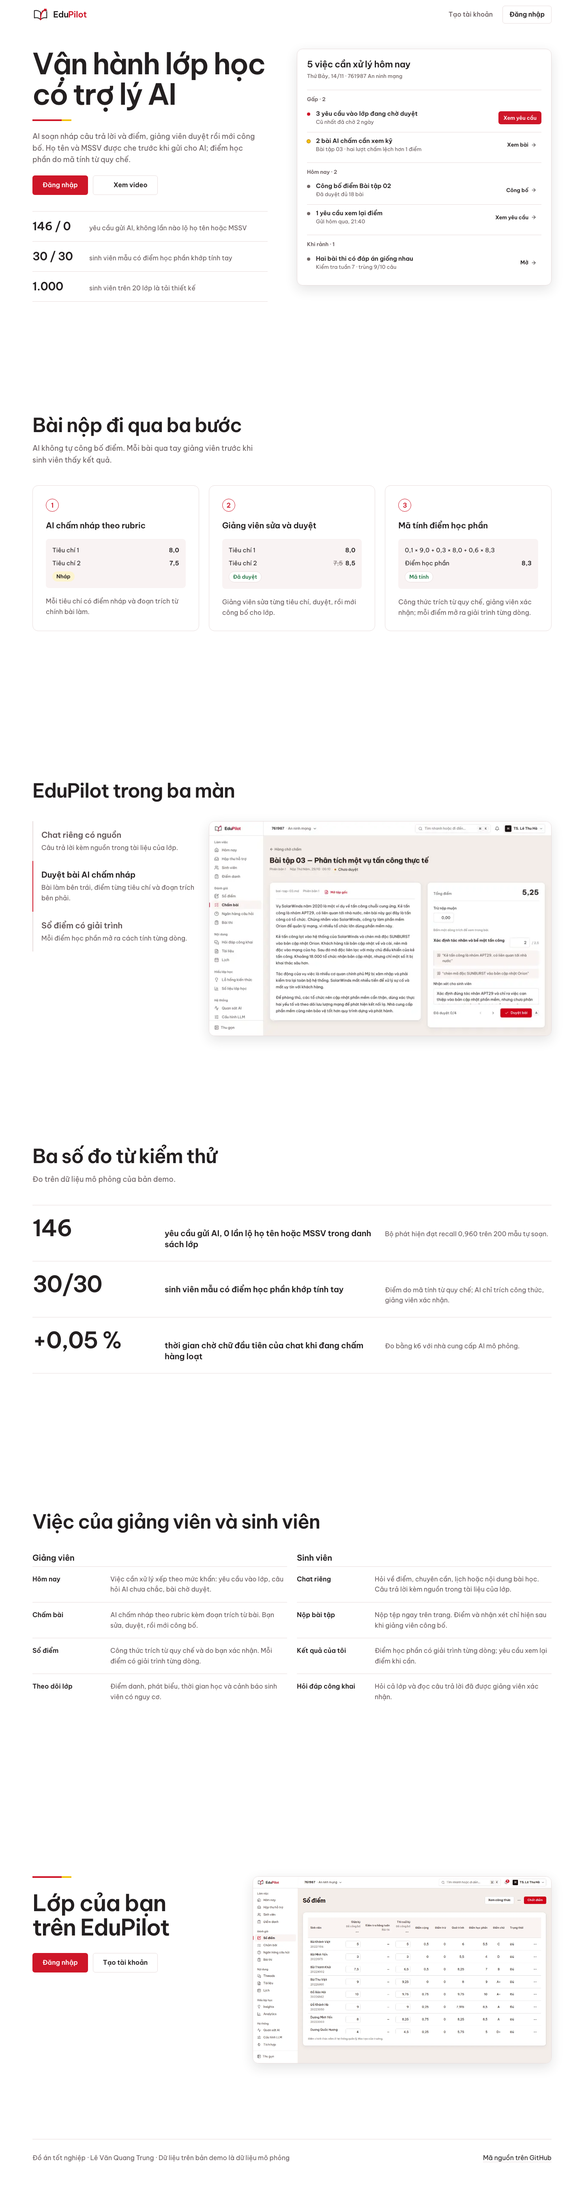
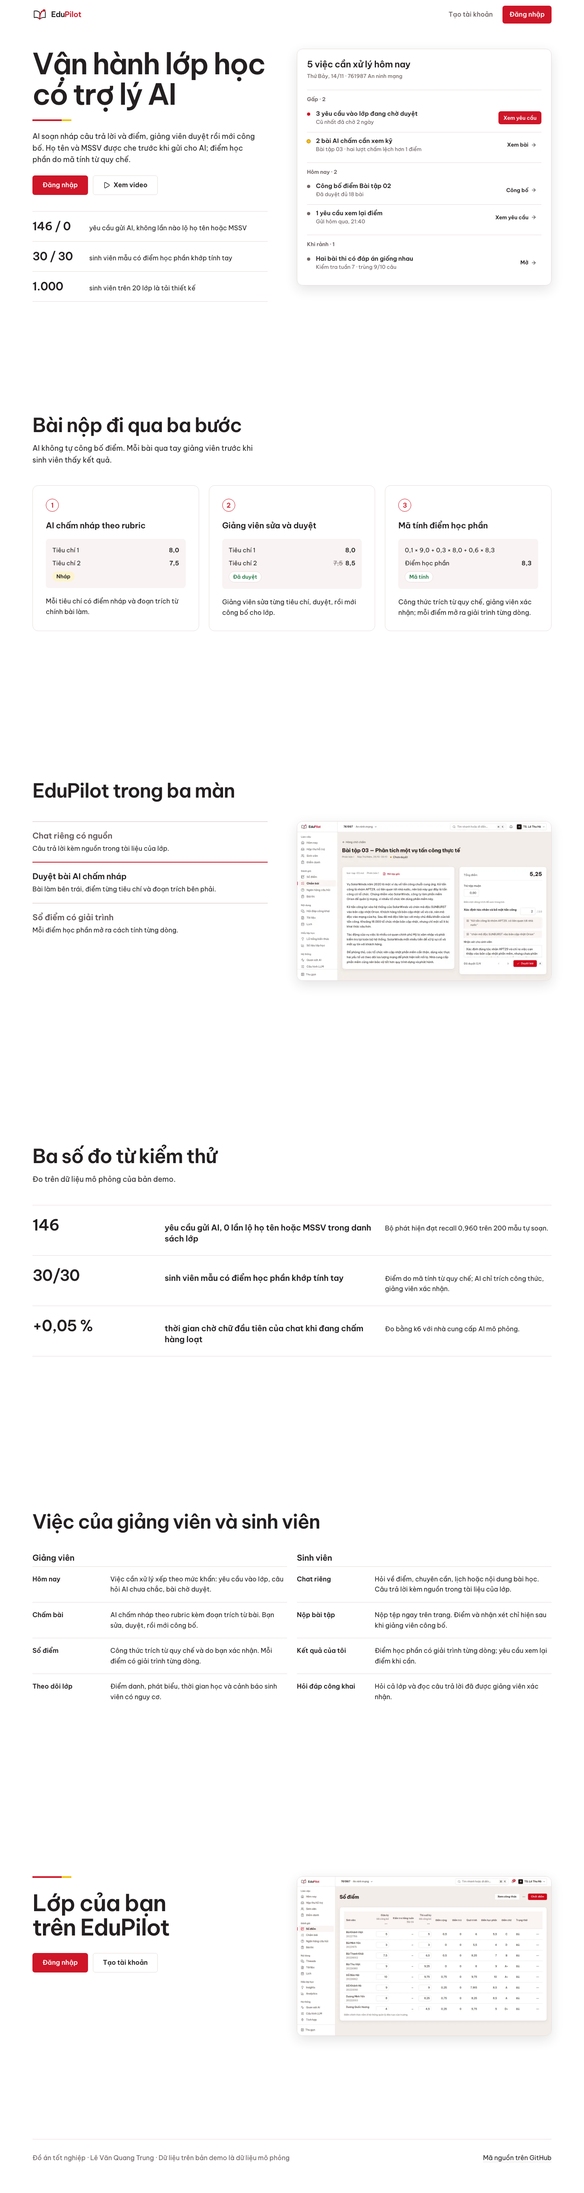
10.7 TL-1: mẫu trang giới thiệu sửa theo bộ kiểm (một đường chia đôi, màn đầu vừa một màn ở 390, nút đăng nhập một kiểu), §23 thêm nền trắng / lọc trong URL / dòng báo việc nền, P-107-10/11

diff --git a/docs/sprints/10.7/mau/landing.html b/docs/sprints/10.7/mau/landing.html
@@ -37,8 +37,8 @@ body { margin: 0; font-size: 1rem; line-height: 1.6; }
 h1, h2, h3, p, dl, dd, ol, ul { margin: 0; padding: 0; } ol, ul { list-style: none; } img, svg { display: block; max-width: 100%; } a { color: inherit; text-decoration: none; } button { font: inherit; cursor: pointer; }
 .ic { width: 18px; height: 18px; fill: none; stroke: currentColor; stroke-width: 1.8; stroke-linecap: round; stroke-linejoin: round; flex: none; }
 :focus-visible { outline: 2px solid var(--ep-red); outline-offset: 3px; border-radius: var(--ep-radius-sm); }
-.skip { position: absolute; left: -9999px; top: 8px; z-index: 50; padding: 8px 12px; background: var(--ep-ink); color: var(--ep-surface); border-radius: var(--ep-radius-sm); }
-.skip:focus { left: 8px; }
+.skip { position: absolute; left: 8px; top: 8px; z-index: 50; padding: 8px 12px; background: var(--ep-ink); color: var(--ep-surface); border-radius: var(--ep-radius-sm); transform: translateY(-200%); }
+.skip:focus { transform: none; }
 
 /* một khung chứa cho thanh trên, mọi mục và chân trang: mép 80 → 1360 ở 1440 */
 .wrap { width: min(100% - 2 * var(--gut), 1280px); margin-inline: auto; position: relative; z-index: 1; }
@@ -61,12 +61,12 @@ main > section, footer.closing { height: 100svh; min-height: 820px; padding: var
 .section--white { background: var(--ep-surface); }
 .h2 { font-size: 3rem; font-weight: 600; line-height: 1.12; letter-spacing: -0.03em; text-wrap: balance; }
 .h3 { font-size: 1.25rem; font-weight: 600; line-height: 1.35; letter-spacing: -0.01em; }
-.lead { font-size: 1.125rem; line-height: 1.6; color: var(--ep-ink-2); max-width: 46ch; }
+.lead { font-size: 1.125rem; line-height: 1.6; color: var(--ep-ink); max-width: 46ch; }
 .head { display: grid; gap: 16px; margin-bottom: 48px; }
-.body { color: var(--ep-ink-2); }
+.body { color: var(--ep-ink); }
 
 /* ---------- 1. màn đầu: chữ + ba dữ kiện ở cột 1–6, sản phẩm thật ở cột 7–12, hai cột cùng đỉnh ---------- */
-.hero .wrap { align-content: start; }
+.hero-text { display: grid; grid-template-columns: repeat(12, minmax(0, 1fr)); column-gap: 24px; align-items: start; }
 .hero__text { grid-column: 1 / span 6; display: grid; gap: 24px; align-content: start; padding-right: 48px; }
 .h1 { font-size: 4.5rem; font-weight: 600; line-height: 1.04; letter-spacing: -0.04em; }
 .stripe { display: flex; height: 4px; width: 96px; } .stripe i { flex: 3; background: var(--ep-red); } .stripe b { flex: 1; background: var(--ep-yellow); } /* tỉ lệ dải đỏ / vàng của nhận diện Bách khoa, không dùng logo trường */
@@ -85,7 +85,7 @@ main > section, footer.closing { height: 100svh; min-height: 820px; padding: var
 .chip--primary { background: var(--ep-red); color: var(--ep-surface); } .chip--ghost { color: var(--ep-ink); } .chip .ic { width: 14px; height: 14px; }
 .facts { display: grid; margin-top: 16px; }
 .fact { display: grid; grid-template-columns: 124px minmax(0, 1fr); column-gap: 16px; align-items: baseline; padding: 14px 0; border-top: 1px solid var(--ep-rule); } .fact:last-child { border-bottom: 1px solid var(--ep-rule); }
-.fact b { font-size: 1.75rem; font-weight: 600; letter-spacing: -0.02em; font-variant-numeric: tabular-nums; white-space: nowrap; } .fact span { color: var(--ep-ink-2); line-height: 1.45; }
+.fact b { font-size: 1.75rem; font-weight: 600; letter-spacing: -0.02em; font-variant-numeric: tabular-nums; white-space: nowrap; } .fact span { line-height: 1.45; }
 
 /* ---------- 2. ba bước của một bài nộp ---------- */
 .steps3 { display: grid; grid-template-columns: repeat(3, minmax(0, 1fr)); gap: 24px; }
@@ -97,32 +97,33 @@ main > section, footer.closing { height: 100svh; min-height: 820px; padding: var
 .tag--draft { background: var(--ep-yellow-soft); color: var(--ep-ink); } .tag--done { background: var(--ep-surface); color: var(--ep-green); border: 1px solid var(--ep-rule); }
 
 /* ---------- 3. EduPilot trong ba màn ---------- */
-.story__list { grid-column: 1 / span 4; display: grid; gap: 0; align-content: start; }
-.story__item { display: grid; gap: 6px; padding: 20px 0 20px 20px; border-left: 2px solid var(--ep-rule); }
-.story__item[aria-current] { border-left-color: var(--ep-red); }
+/* mọi chỗ chia đôi của trang dùng chung một đường: cột phải bắt đầu ở cột 7 (x 732 ở 1440) */
+.story__list { grid-column: 1 / span 6; display: grid; gap: 0; align-content: start; padding-right: 48px; }
+.story__item { display: grid; gap: 6px; padding: 20px 0; border-top: 2px solid var(--ep-rule); }
+.story__item[aria-current] { border-top-color: var(--ep-red); }
 .story__item:not([aria-current]) .h3 { color: var(--ep-ink-2); }
-.story__shot { grid-column: 5 / span 8; align-self: start; }
+.story__shot { grid-column: 7 / span 6; align-self: start; }
 .story__shot img { width: 100%; height: auto; }
 
 /* ---------- 4. ba số đo ---------- */
 .stats { display: grid; }
 .stat { display: grid; grid-template-columns: repeat(12, minmax(0, 1fr)); column-gap: 24px; align-items: baseline; padding: 28px 0; border-top: 1px solid var(--ep-rule); }
 .stat:last-child { border-bottom: 1px solid var(--ep-rule); }
-.stat__num { grid-column: 1 / span 3; font-size: 3.5rem; font-weight: 600; line-height: 1; letter-spacing: -0.03em; font-variant-numeric: tabular-nums; }
-.stat__what { grid-column: 4 / span 5; } .stat__how { grid-column: 9 / span 4; color: var(--ep-ink-2); }
+.stat__num { grid-column: 1 / span 3; font-size: 2.375rem; font-weight: 600; line-height: 1.1; letter-spacing: -0.03em; font-variant-numeric: tabular-nums; }
+.stat__what { grid-column: 4 / span 5; } .stat__how { grid-column: 9 / span 4; }
 
 /* ---------- 5. hai vai ---------- */
 .roles { display: grid; grid-template-columns: repeat(2, minmax(0, 1fr)); column-gap: 24px; }
 .role { display: grid; gap: 8px; align-content: start; }
 .items > div { display: grid; grid-template-columns: 168px minmax(0, 1fr); column-gap: 24px; padding: 18px 0; border-top: 1px solid var(--ep-rule); }
-.items dt { font-weight: 600; } .items dd { color: var(--ep-ink-2); }
+.items dt { font-weight: 600; }
 
 /* ---------- 6. lời kết + chân trang: một mục ---------- */
 footer.closing .wrap { height: 100%; display: grid; grid-template-rows: 1fr auto; }
 .close { display: grid; grid-template-columns: repeat(12, minmax(0, 1fr)); column-gap: 24px; align-items: start; }
-.close__text { grid-column: 1 / span 5; display: grid; gap: 32px; }
+.close__text { grid-column: 1 / span 6; display: grid; gap: 32px; }
 .close .h2 { font-size: 3.5rem; line-height: 1.08; }
-.close__shot { grid-column: 6 / span 7; } .close__shot img { width: 100%; height: auto; }
+.close__shot { grid-column: 7 / span 6; } .close__shot img { width: 100%; height: auto; }
 .legal { display: flex; align-items: center; justify-content: space-between; gap: 24px; flex-wrap: wrap; padding-top: 24px; border-top: 1px solid var(--ep-rule); color: var(--ep-ink-2); }
 .legal a { display: inline-flex; align-items: center; min-height: 44px; color: var(--ep-ink); text-decoration: underline; text-decoration-color: var(--ep-rule); text-underline-offset: 4px; }
 .legal a:hover { text-decoration-color: var(--ep-red); }
@@ -136,7 +137,7 @@ footer.closing .wrap { height: 100%; display: grid; grid-template-rows: 1fr auto
 @media (max-width: 1023px) {
   :root { --gut: 48px; }
   main > section, footer.closing { height: auto; min-height: 100svh; }
-  .hero__text, .hero__shot, .story__list, .story__shot, .close__text, .close__shot { grid-column: 1 / -1; } .hero__text { padding-right: 0; } .hero .wrap, .close { row-gap: 32px; }
+  .hero__text, .hero__shot, .story__list, .story__shot, .close__text, .close__shot { grid-column: 1 / -1; } .hero__text, .story__list { padding-right: 0; } .hero-text, .close, .grid { row-gap: 32px; }
   .steps3, .roles { grid-template-columns: 1fr; row-gap: 24px; }
 }
 @media (max-width: 639px) {
@@ -146,8 +147,11 @@ footer.closing .wrap { height: 100%; display: grid; grid-template-rows: 1fr auto
   .head { margin-bottom: 32px; }
   .actions .btn { flex: 1; }
   .fact { grid-template-columns: 96px minmax(0, 1fr); } .fact b { font-size: 1.375rem; }
+  /* màn đầu vừa đúng một màn điện thoại: một dữ kiện, nhóm việc đầu tiên */
+  .fact:nth-child(n+2), .app > :nth-child(n+6) { display: none; }
+  #bai-nop, #vai { min-height: 200svh; }
   .card { padding: 24px; }
-  .stat { grid-template-columns: 1fr; row-gap: 8px; } .stat__num, .stat__what, .stat__how { grid-column: 1; } .stat__num { font-size: 2.5rem; }
+  .stat { grid-template-columns: 1fr; row-gap: 6px; padding: 16px 0; } .stat__num, .stat__what, .stat__how { grid-column: 1; } .stat__num { font-size: 1.75rem; }
   .items > div { grid-template-columns: 1fr; row-gap: 4px; }
   .app { padding: 16px; } .chip--ghost { display: none; }
 }
@@ -155,50 +159,14 @@ footer.closing .wrap { height: 100%; display: grid; grid-template-rows: 1fr auto
 </head>
 <body>
 <svg width="0" height="0" style="position:absolute" aria-hidden="true"><defs>
-<symbol id="i-house" viewBox="0 0 24 24"><path d="M15 21v-8a1 1 0 0 0-1-1h-4a1 1 0 0 0-1 1v8"/><path d="M3 10a2 2 0 0 1 .709-1.528l7-6a2 2 0 0 1 2.582 0l7 6A2 2 0 0 1 21 10v9a2 2 0 0 1-2 2H5a2 2 0 0 1-2-2z"/></symbol>
-<symbol id="i-inbox" viewBox="0 0 24 24"><polyline points="22 12 16 12 14 15 10 15 8 12 2 12"/><path d="M5.45 5.11 2 12v6a2 2 0 0 0 2 2h16a2 2 0 0 0 2-2v-6l-3.45-6.89A2 2 0 0 0 16.76 4H7.24a2 2 0 0 0-1.79 1.11z"/></symbol>
-<symbol id="i-users" viewBox="0 0 24 24"><path d="M16 21v-2a4 4 0 0 0-4-4H6a4 4 0 0 0-4 4v2"/><path d="M16 3.128a4 4 0 0 1 0 7.744"/><path d="M22 21v-2a4 4 0 0 0-3-3.87"/><circle cx="9" cy="7" r="4"/></symbol>
-<symbol id="i-clipboard-check" viewBox="0 0 24 24"><rect width="8" height="4" x="8" y="2" rx="1" ry="1"/><path d="M16 4h2a2 2 0 0 1 2 2v14a2 2 0 0 1-2 2H6a2 2 0 0 1-2-2V6a2 2 0 0 1 2-2h2"/><path d="m9 14 2 2 4-4"/></symbol>
-<symbol id="i-notebook-pen" viewBox="0 0 24 24"><path d="M13.4 2H6a2 2 0 0 0-2 2v16a2 2 0 0 0 2 2h12a2 2 0 0 0 2-2v-7.4"/><path d="M2 6h4"/><path d="M2 10h4"/><path d="M2 14h4"/><path d="M2 18h4"/><path d="M21.378 5.626a1 1 0 1 0-3.004-3.004l-5.01 5.012a2 2 0 0 0-.506.854l-.837 2.87a.5.5 0 0 0 .62.62l2.87-.837a2 2 0 0 0 .854-.506z"/></symbol>
-<symbol id="i-list-checks" viewBox="0 0 24 24"><path d="M13 5h8"/><path d="M13 12h8"/><path d="M13 19h8"/><path d="m3 17 2 2 4-4"/><path d="m3 7 2 2 4-4"/></symbol>
-<symbol id="i-circle-question-mark" viewBox="0 0 24 24"><circle cx="12" cy="12" r="10"/><path d="M9.09 9a3 3 0 0 1 5.83 1c0 2-3 3-3 3"/><path d="M12 17h.01"/></symbol>
-<symbol id="i-clipboard-list" viewBox="0 0 24 24"><rect width="8" height="4" x="8" y="2" rx="1" ry="1"/><path d="M16 4h2a2 2 0 0 1 2 2v14a2 2 0 0 1-2 2H6a2 2 0 0 1-2-2V6a2 2 0 0 1 2-2h2"/><path d="M12 11h4"/><path d="M12 16h4"/><path d="M8 11h.01"/><path d="M8 16h.01"/></symbol>
-<symbol id="i-messages-square" viewBox="0 0 24 24"><path d="M16 10a2 2 0 0 1-2 2H6.828a2 2 0 0 0-1.414.586l-2.202 2.202A.71.71 0 0 1 2 14.286V4a2 2 0 0 1 2-2h10a2 2 0 0 1 2 2z"/><path d="M20 9a2 2 0 0 1 2 2v10.286a.71.71 0 0 1-1.212.502l-2.202-2.202A2 2 0 0 0 17.172 19H10a2 2 0 0 1-2-2v-1"/></symbol>
-<symbol id="i-message-square" viewBox="0 0 24 24"><path d="M22 17a2 2 0 0 1-2 2H6.828a2 2 0 0 0-1.414.586l-2.202 2.202A.71.71 0 0 1 2 21.286V5a2 2 0 0 1 2-2h16a2 2 0 0 1 2 2z"/></symbol>
-<symbol id="i-file-text" viewBox="0 0 24 24"><path d="M6 22a2 2 0 0 1-2-2V4a2 2 0 0 1 2-2h8a2.4 2.4 0 0 1 1.704.706l3.588 3.588A2.4 2.4 0 0 1 20 8v12a2 2 0 0 1-2 2z"/><path d="M14 2v5a1 1 0 0 0 1 1h5"/><path d="M10 9H8"/><path d="M16 13H8"/><path d="M16 17H8"/></symbol>
-<symbol id="i-calendar-days" viewBox="0 0 24 24"><path d="M8 2v3"/><path d="M16 2v3"/><rect x="3" y="3" width="18" height="18" rx="2"/><path d="M3 9h18"/><path d="M8 13h.01"/><path d="M12 13h.01"/><path d="M16 13h.01"/><path d="M8 17h.01"/><path d="M12 17h.01"/><path d="M16 17h.01"/></symbol>
-<symbol id="i-lightbulb" viewBox="0 0 24 24"><path d="M15 14c.2-1 .7-1.7 1.5-2.5 1-.9 1.5-2.2 1.5-3.5A6 6 0 0 0 6 8c0 1 .2 2.2 1.5 3.5.7.7 1.3 1.5 1.5 2.5"/><path d="M9 18h6"/><path d="M10 22h4"/></symbol>
-<symbol id="i-chart-column" viewBox="0 0 24 24"><path d="M3 3v16a2 2 0 0 0 2 2h16"/><path d="M18 17V9"/><path d="M13 17V5"/><path d="M8 17v-3"/></symbol>
-<symbol id="i-activity" viewBox="0 0 24 24"><path d="M22 12h-2.48a2 2 0 0 0-1.93 1.46l-2.35 8.36a.25.25 0 0 1-.48 0L9.24 2.18a.25.25 0 0 0-.48 0l-2.35 8.36A2 2 0 0 1 4.49 12H2"/></symbol>
-<symbol id="i-sliders-horizontal" viewBox="0 0 24 24"><path d="M10 5H3"/><path d="M12 19H3"/><path d="M14 3v4"/><path d="M16 17v4"/><path d="M21 12h-9"/><path d="M21 19h-5"/><path d="M21 5h-7"/><path d="M8 10v4"/><path d="M8 12H3"/></symbol>
-<symbol id="i-plug" viewBox="0 0 24 24"><path d="M12 22v-5"/><path d="M15 8V2"/><path d="M17 8a1 1 0 0 1 1 1v4a4 4 0 0 1-4 4h-4a4 4 0 0 1-4-4V9a1 1 0 0 1 1-1z"/><path d="M9 8V2"/></symbol>
-<symbol id="i-panel-left-close" viewBox="0 0 24 24"><rect width="18" height="18" x="3" y="3" rx="2"/><path d="M9 3v18"/><path d="m16 15-3-3 3-3"/></symbol>
-<symbol id="i-search" viewBox="0 0 24 24"><path d="m21 21-4.34-4.34"/><circle cx="11" cy="11" r="8"/></symbol>
-<symbol id="i-bell" viewBox="0 0 24 24"><path d="M10.268 21a2 2 0 0 0 3.464 0"/><path d="M3.262 15.326A1 1 0 0 0 4 17h16a1 1 0 0 0 .74-1.673C19.41 13.956 18 12.499 18 8A6 6 0 0 0 6 8c0 4.499-1.411 5.956-2.738 7.326"/></symbol>
-<symbol id="i-chevron-down" viewBox="0 0 24 24"><path d="m6 9 6 6 6-6"/></symbol>
-<symbol id="i-chevron-right" viewBox="0 0 24 24"><path d="m9 18 6-6-6-6"/></symbol>
-<symbol id="i-plus" viewBox="0 0 24 24"><path d="M5 12h14"/><path d="M12 5v14"/></symbol>
-<symbol id="i-sparkles" viewBox="0 0 24 24"><path d="M11.017 2.814a1 1 0 0 1 1.966 0l1.051 5.558a2 2 0 0 0 1.594 1.594l5.558 1.051a1 1 0 0 1 0 1.966l-5.558 1.051a2 2 0 0 0-1.594 1.594l-1.051 5.558a1 1 0 0 1-1.966 0l-1.051-5.558a2 2 0 0 0-1.594-1.594l-5.558-1.051a1 1 0 0 1 0-1.966l5.558-1.051a2 2 0 0 0 1.594-1.594z"/><path d="M20 2v4"/><path d="M22 4h-4"/><circle cx="4" cy="20" r="2"/></symbol>
-<symbol id="i-refresh-cw" viewBox="0 0 24 24"><path d="M3 12a9 9 0 0 1 9-9 9.75 9.75 0 0 1 6.74 2.74L21 8"/><path d="M21 3v5h-5"/><path d="M21 12a9 9 0 0 1-9 9 9.75 9.75 0 0 1-6.74-2.74L3 16"/><path d="M8 16H3v5"/></symbol>
-<symbol id="i-circle-alert" viewBox="0 0 24 24"><circle cx="12" cy="12" r="10"/><line x1="12" x2="12" y1="8" y2="12"/><line x1="12" x2="12.01" y1="16" y2="16"/></symbol>
-<symbol id="i-upload" viewBox="0 0 24 24"><path d="M12 3v12"/><path d="m17 8-5-5-5 5"/><path d="M21 15v4a2 2 0 0 1-2 2H5a2 2 0 0 1-2-2v-4"/></symbol>
-<symbol id="i-ellipsis" viewBox="0 0 24 24"><circle cx="12" cy="12" r="1"/><circle cx="19" cy="12" r="1"/><circle cx="5" cy="12" r="1"/></symbol>
-<symbol id="i-pin" viewBox="0 0 24 24"><path d="M12 17v5"/><path d="M9 10.76a2 2 0 0 1-1.11 1.79l-1.78.9A2 2 0 0 0 5 15.24V16a1 1 0 0 0 1 1h12a1 1 0 0 0 1-1v-.76a2 2 0 0 0-1.11-1.79l-1.78-.9A2 2 0 0 1 15 10.76V7a1 1 0 0 1 1-1 2 2 0 0 0 0-4H8a2 2 0 0 0 0 4 1 1 0 0 1 1 1z"/></symbol>
-<symbol id="i-calendar-plus" viewBox="0 0 24 24"><path d="M16 18h6"/><path d="M16 2v3"/><path d="M19 15v6"/><path d="M21 11.5V5a2 2 0 00-2-2H5a2 2 0 00-2 2v14a2 2 0 002 2h8.3"/><path d="M3 9h18"/><path d="M8 2v3"/></symbol>
+<symbol id="i-play" viewBox="0 0 24 24"><path d="M5 5a2 2 0 0 1 3.008-1.728l11.997 6.998a2 2 0 0 1 .003 3.458l-12 7A2 2 0 0 1 5 19z"/></symbol>
 <symbol id="i-arrow-right" viewBox="0 0 24 24"><path d="M5 12h14"/><path d="m12 5 7 7-7 7"/></symbol>
-<symbol id="i-qr-code" viewBox="0 0 24 24"><rect width="5" height="5" x="3" y="3" rx="1"/><rect width="5" height="5" x="16" y="3" rx="1"/><rect width="5" height="5" x="3" y="16" rx="1"/><path d="M21 16h-3a2 2 0 0 0-2 2v3"/><path d="M21 21v.01"/><path d="M12 7v3a2 2 0 0 1-2 2H7"/><path d="M3 12h.01"/><path d="M12 3h.01"/><path d="M12 16v.01"/><path d="M16 12h1"/><path d="M21 12v.01"/><path d="M12 21v-1"/></symbol>
-<symbol id="i-scan-line" viewBox="0 0 24 24"><path d="M3 7V5a2 2 0 0 1 2-2h2"/><path d="M17 3h2a2 2 0 0 1 2 2v2"/><path d="M21 17v2a2 2 0 0 1-2 2h-2"/><path d="M7 21H5a2 2 0 0 1-2-2v-2"/><path d="M7 12h10"/></symbol>
-<symbol id="i-check" viewBox="0 0 24 24"><path d="M20 6 9 17l-5-5"/></symbol>
-<symbol id="i-circle-check" viewBox="0 0 24 24"><circle cx="12" cy="12" r="10"/><path d="m16 9-5.5 5.5L8 12"/></symbol>
-<symbol id="i-map-pin" viewBox="0 0 24 24"><path d="M20 10c0 4.993-5.539 10.193-7.399 11.799a1 1 0 0 1-1.202 0C9.539 20.193 4 14.993 4 10a8 8 0 0 1 16 0"/><circle cx="12" cy="10" r="3"/></symbol>
-<symbol id="i-library" viewBox="0 0 24 24"><path d="m16 6 4 14"/><path d="M12 6v14"/><path d="M8 8v12"/><path d="M4 4v16"/></symbol>
-<symbol id="i-clock" viewBox="0 0 24 24"><circle cx="12" cy="12" r="10"/><path d="M12 6v6l4 2"/></symbol>
 </defs></svg>
-<a class="skip" href="#main">Tới nội dung</a>
 
 <header class="nav">
+  <a class="skip" href="#main">Tới nội dung</a>
   <div class="wrap">
-    <a href="#top" aria-label="EduPilot"><svg width="188" height="40" viewBox="0 0 188 40" fill="none" xmlns="http://www.w3.org/2000/svg">
+    <a href="#top" aria-label="EduPilot"><svg class="logo" width="188" height="40" viewBox="0 0 188 40" fill="none" xmlns="http://www.w3.org/2000/svg">
   <title>EduPilot</title>
   <g>
     <path d="M4.75 10.25C10.3 8.85 15.35 10.15 20 14.15V31.6C15.35 27.8 10.3 26.6 4.75 28.15V10.25Z" stroke="#231F20" stroke-width="2" stroke-linejoin="round"/>
@@ -211,13 +179,13 @@ footer.closing .wrap { height: 100%; display: grid; grid-template-rows: 1fr auto
   <text x="51" y="27" fill="#231F20" font-family="Be Vietnam Pro, Noto Sans, Arial, sans-serif" font-size="21" font-weight="700" letter-spacing="-0.5">Edu</text>
   <text x="88" y="27" fill="#CE1628" font-family="Be Vietnam Pro, Noto Sans, Arial, sans-serif" font-size="21" font-weight="700" letter-spacing="-0.5">Pilot</text>
 </svg></a>
-    <div class="nav__end"><a class="nav__link" href="#register">Tạo tài khoản</a><a class="btn btn--secondary btn--sm" href="#login">Đăng nhập</a></div>
+    <div class="nav__end"><a class="nav__link" href="#register">Tạo tài khoản</a><a class="btn btn--primary btn--sm" href="#login">Đăng nhập</a></div>
   </div>
 </header>
 
 <main id="main">
   <section class="hero" id="top" aria-labelledby="hero-title" data-enter>
-    <div class="wrap grid">
+    <div class="wrap"><div class="hero-text">
       <div class="hero__text">
         <h1 class="h1" id="hero-title">Vận hành lớp học<br>có trợ lý AI</h1>
         <span class="stripe" aria-hidden="true"><i></i><b></b></span>
@@ -229,7 +197,7 @@ footer.closing .wrap { height: 100%; display: grid; grid-template-rows: 1fr auto
         <div class="fact"><b>1.000</b><span>sinh viên trên 20 lớp là tải thiết kế</span></div>
       </dl>
       </div>
-      <div class="hero__shot frame" role="img" aria-label="Màn Hôm nay của giảng viên: năm việc cần xử lý, xếp theo mức khẩn">
+      <div class="hero__shot frame" data-ui role="img" aria-label="Màn Hôm nay của giảng viên: năm việc cần xử lý, xếp theo mức khẩn">
         <div class="app" aria-hidden="true">
           <p class="app__title">5 việc cần xử lý hôm nay</p>
           <p class="app__meta">Thứ Bảy, 14/11 · 761987 An ninh mạng</p>
@@ -243,7 +211,7 @@ footer.closing .wrap { height: 100%; display: grid; grid-template-rows: 1fr auto
           <div class="row"><i class="dot"></i><div class="row__text"><p class="row__title">Hai bài thi có đáp án giống nhau</p><p class="row__ctx">Kiểm tra tuần 7 · trùng 9/10 câu</p></div><span class="chip chip--ghost">Mở<svg class="ic"><use href="#i-arrow-right"/></svg></span></div>
         </div>
       </div>
-    </div>
+    </div></div>
   </section>
 
   <section class="section" id="bai-nop" aria-labelledby="flow-title">
@@ -251,13 +219,13 @@ footer.closing .wrap { height: 100%; display: grid; grid-template-rows: 1fr auto
       <div class="head"><h2 class="h2" id="flow-title">Bài nộp đi qua ba bước</h2><p class="lead">AI không tự công bố điểm. Mỗi bài qua tay giảng viên trước khi sinh viên thấy kết quả.</p></div>
       <ol class="steps3">
         <li class="card"><span class="mark" aria-hidden="true">1</span><h3 class="h3">AI chấm nháp theo rubric</h3>
-          <div class="spec" aria-hidden="true"><p><span>Tiêu chí 1</span><b>8,0</b></p><p><span>Tiêu chí 2</span><b>7,5</b></p><i class="tag tag--draft">Nháp</i></div>
+          <div class="spec" data-ui aria-hidden="true"><p><span>Tiêu chí 1</span><b>8,0</b></p><p><span>Tiêu chí 2</span><b>7,5</b></p><i class="tag tag--draft">Nháp</i></div>
           <p class="body">Mỗi tiêu chí có điểm nháp và đoạn trích từ chính bài làm.</p></li>
         <li class="card"><span class="mark" aria-hidden="true">2</span><h3 class="h3">Giảng viên sửa và duyệt</h3>
-          <div class="spec" aria-hidden="true"><p><span>Tiêu chí 1</span><b>8,0</b></p><p><span>Tiêu chí 2</span><b><s>7,5</s>8,5</b></p><i class="tag tag--done">Đã duyệt</i></div>
+          <div class="spec" data-ui aria-hidden="true"><p><span>Tiêu chí 1</span><b>8,0</b></p><p><span>Tiêu chí 2</span><b><s>7,5</s>8,5</b></p><i class="tag tag--done">Đã duyệt</i></div>
           <p class="body">Giảng viên sửa từng tiêu chí, duyệt, rồi mới công bố cho lớp.</p></li>
         <li class="card"><span class="mark" aria-hidden="true">3</span><h3 class="h3">Mã tính điểm học phần</h3>
-          <div class="spec" aria-hidden="true"><p><span>0,1 × 9,0 + 0,3 × 8,0 + 0,6 × 8,3</span></p><p><span>Điểm học phần</span><b>8,3</b></p><i class="tag tag--done">Mã tính</i></div>
+          <div class="spec" data-ui aria-hidden="true"><p><span>0,1 × 9,0 + 0,3 × 8,0 + 0,6 × 8,3</span></p><p><span>Điểm học phần</span><b>8,3</b></p><i class="tag tag--done">Mã tính</i></div>
           <p class="body">Công thức trích từ quy chế, giảng viên xác nhận; mỗi điểm mở ra giải trình từng dòng.</p></li>
       </ol>
     </div>

diff --git a/docs/sprints/10.7/techlead.md b/docs/sprints/10.7/techlead.md
@@ -188,8 +188,8 @@ Số chỗ gọi đếm trên `frontend/src` (kể cả `Demo*`, trừ `app/dev`
 | `Section` | `title?, description?, action?, panel?: boolean \| "lg" \| "none", className?, id?, part?` | `title, action?, id?, part?`; luôn bọc con trong **một** `Panel` | 5 chỗ có `description` (3 ngoài `app/dev`: `insights`, `today/StudentToday`, `threads/DemoThreads`); 99 chỗ `panel` bỏ prop; 0 chỗ dùng `"lg"` / `"none"` | Dòng phụ; chọn có panel hay không; `className` |
 | `Panel` | `as?, padding?: "md" \| "lg" \| "none", aria-label?` | `as?, aria-label?` | 2 chỗ `padding="none"` (đều là chia đôi → chuyển sang `Split`) | Đệm. Chiều cao: không ai đặt được vì `className` vốn đã cấm, và luật 25–26 chặn CSS route |
 | `Split` | `main, aside, ratio?: "wide-main" \| "half"`; **0 chỗ dùng** | `ratio: "main-aside" \| "half" \| "list-detail"`, `fill?: boolean`, `detailOpen?: boolean` (dưới 1100 px: danh sách → chi tiết). `list-detail` và `fill` tự bọc một panel sát mép; `fill` tự tắt khi danh sách rỗng / lỗi | `chat` (2), `inbox`, `grading/SubmissionReview`, `gradebook/GradeScheme`, `today/StaffToday`, `exam/take`, `practice/PracticeRun` | Chiều cao theo màn; tỉ lệ cột; đường kẻ dọc |
-| `EmptyState` | `title, children?, action?, icon?` | `title: string, action?: ReactNode`; CSS: căn giữa, đệm dọc `--ep-space-16`, bỏ `max-width: 56ch` và `justify-items: start` | 96 chỗ: 65 có thân chữ, 11 có `icon`, 28 có `action` | Thân chữ, icon, căn lề |
-| `PageState` | `empty?: ReactNode`, mặc định có câu «Khi có dữ liệu…»; lỗi mặc định hai câu | `empty?: { title: string; action?: ReactNode }`, mặc định `{ title: "Chưa có dữ liệu" }`; `error?: { problem: string }`; lỗi mặc định `Không tải được nội dung` + «Thử lại»; `unsaved?: boolean` thêm câu «Chữ bạn đã nhập vẫn còn» | mọi chỗ truyền `empty=` (≈ 60) | Hình khối rỗng và khối lỗi |
+| `EmptyState` | `title, children?, action?, icon?` | `title: string, action?: ReactNode`; CSS: căn giữa, đệm dọc `--ep-space-16`, bỏ `max-width: 56ch` và `justify-items: start` | 96 thẻ: 65 có thẻ đóng (có thân), 11 có `icon`, 28 có `action` | Thân chữ, icon, căn lề |
+| `PageState` | `empty?: ReactNode`, mặc định có câu «Khi có dữ liệu…»; lỗi mặc định hai câu | `empty?: { title: string; action?: ReactNode }`, mặc định `{ title: "Chưa có dữ liệu" }`; `error?: { problem: string }`; lỗi mặc định `Không tải được nội dung` + «Thử lại»; `unsaved?: boolean` thêm câu «Chữ bạn đã nhập vẫn còn» | 36 chỗ truyền `empty={…}` | Hình khối rỗng và khối lỗi |
 | `Toolbar` | `children, end?, alignEnd?` | giữ. Thêm luật: `end` không chứa nút `primary` khi trang có một vùng (đo bằng H6) | `grading/GradingQueue` và các màn H6 chỉ ra | – |
 
 **Móc DOM ổn định** (primitive tự gắn; QC và `frame.spec.ts` chỉ đọc các móc này):
